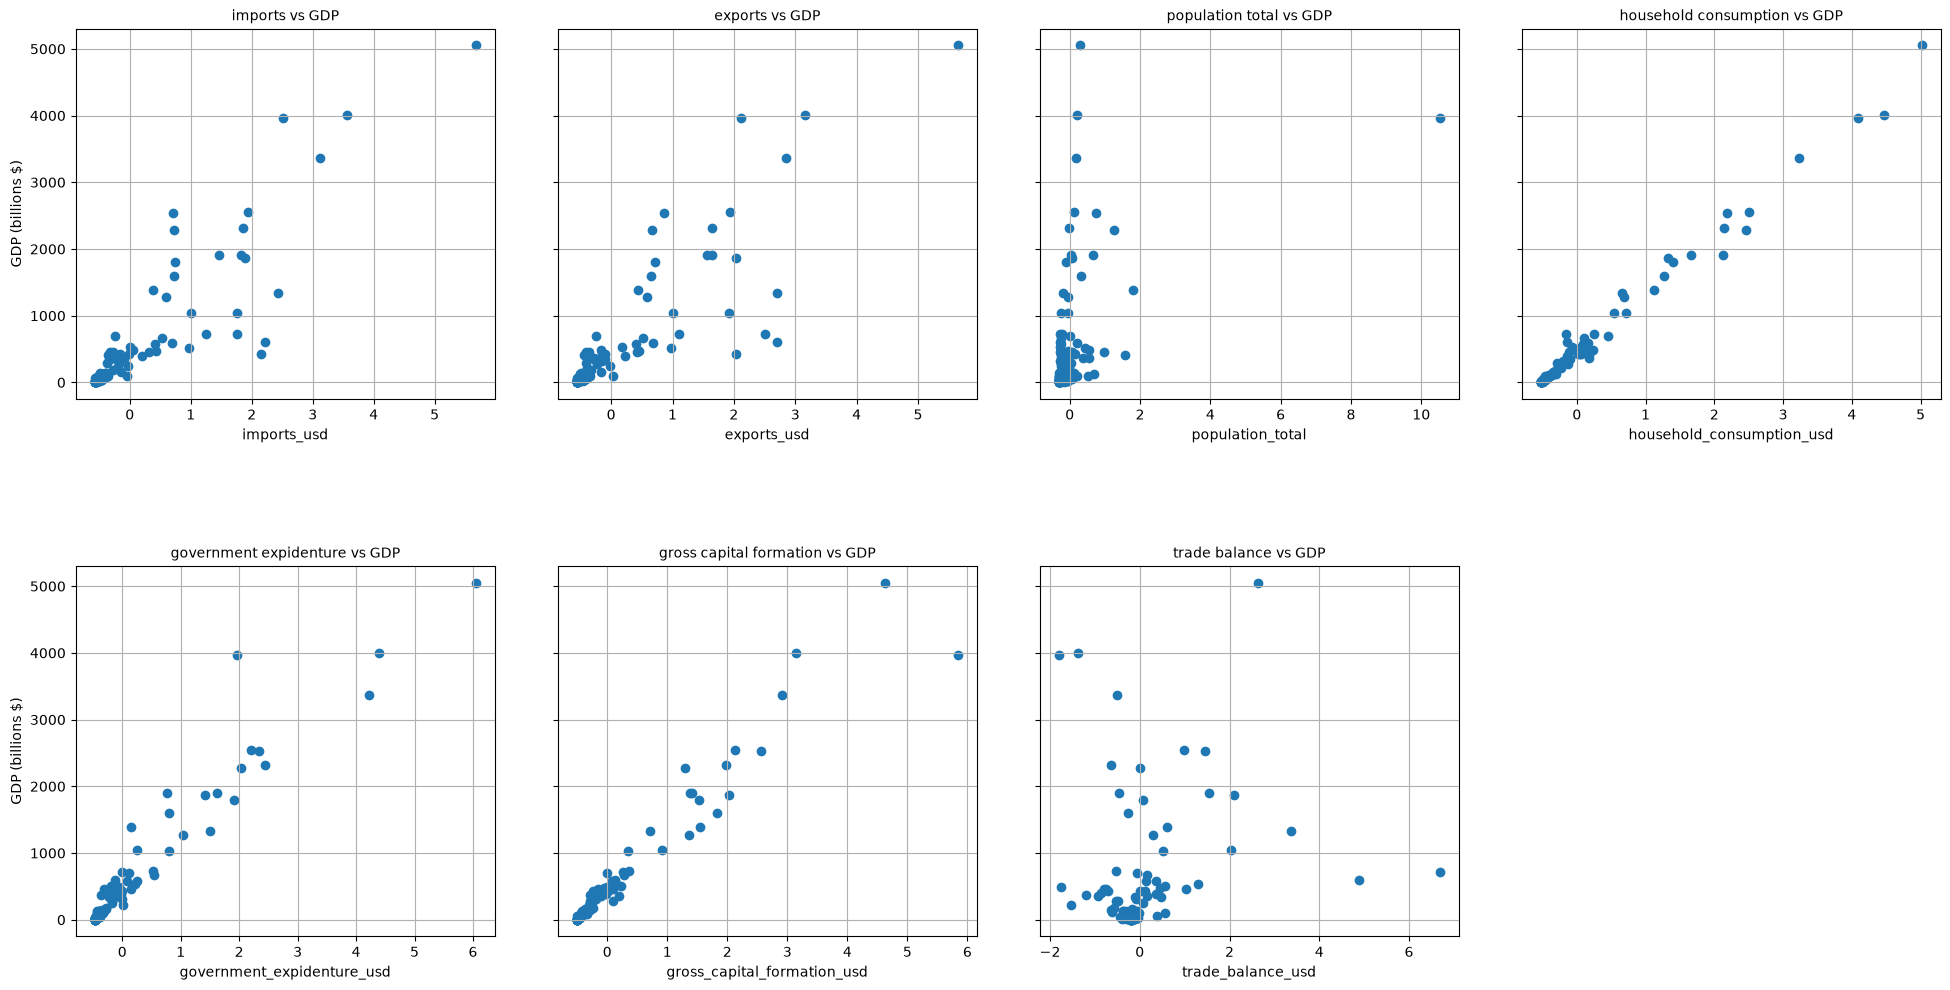
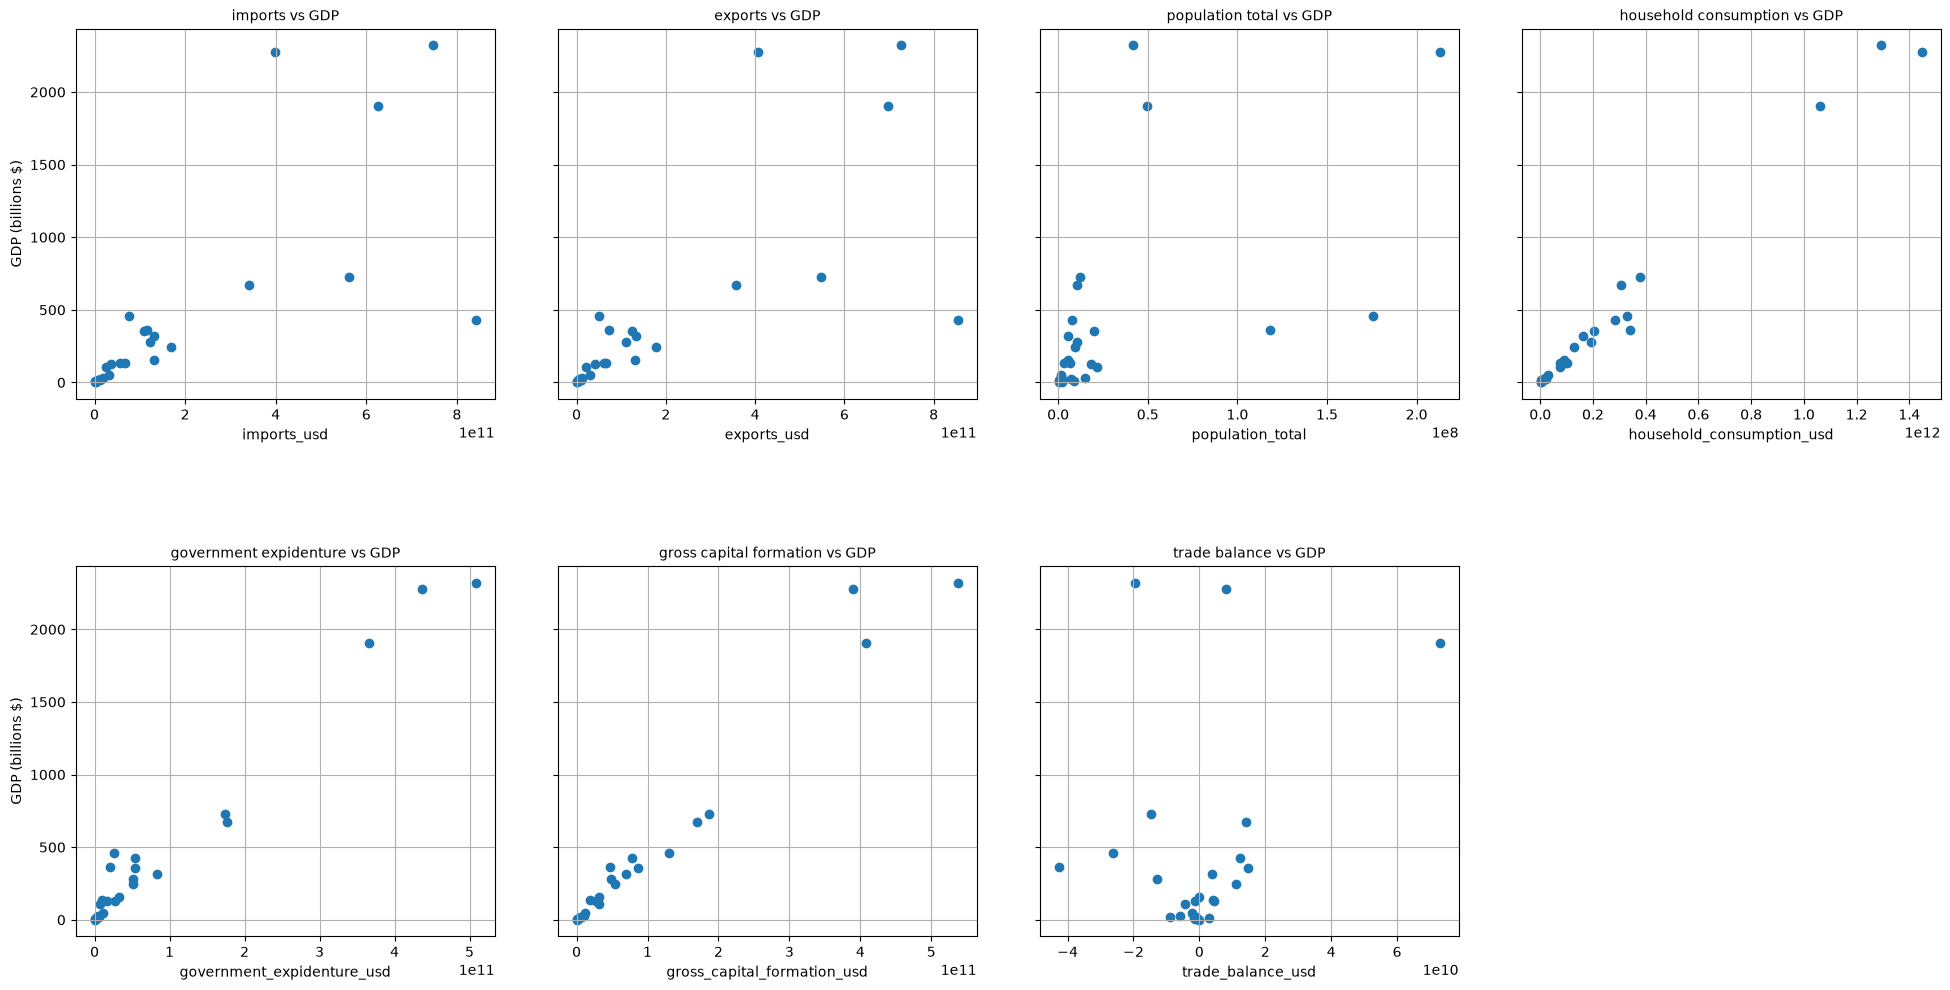
Add train/test evaluation, improve visualizations, and clean repository

diff --git a/src/main.py b/src/main.py
@@ -1,5 +1,5 @@
 import numpy as np
-from preprocessing import load_data,split_features_targets,z_score_normalization
+from preprocessing import load_data,split_randomize_features_targets,z_score_normalization
 from model import predict,compute_gradient_descent,predict_gdp
 from visualization import plot_cost_comparison,actual_data,pred_vs_actual,predict_data
 from metrics import compute_MSE, compute_RMSE, compute_MAE, compute_R2
@@ -8,65 +8,86 @@ from metrics import compute_MSE, compute_RMSE, compute_MAE, compute_R2
 
 data = load_data("../data/world_development_index_2025_data.csv")
 
-x,y,x_features = split_features_targets(data,"gdp_usd")
-x_norm, mean, std= z_score_normalization(x)
+x_train,x_test,y_train,y_test,x_features = split_randomize_features_targets(data,"gdp_usd")
+x_train_norm, mean, std = z_score_normalization(x_train)
+x_test_norm = (x_test - mean) / std
 
-print(f"x shape: {x.shape} ")
-print(f"y shape: {y.shape} ")
-
-print(f"first 5 rows of data before normalization:")
-print(x[:5])
-print(f"first 5 rows of data after normalization:")
-print(x_norm[:5])
-print(f"feature means : ")
+print("=" * 60)
+print("MULTIPLE LINEAR REGRESSION FROM SCRATCH")
+print("=" * 60)
+print("\nDataset")
+print("-" * 60)
+print(f"Training samples: {x_train.shape[0]}")
+print(f"Testing samples:  {x_test.shape[0]}")
+print(f"Number of features: {x_train.shape[1]}")
+print("\nFeatures:")
+for i, feature in enumerate(x_features, start=1):
+    print(f"{i}. {feature}")
+print("\nFirst 5 training rows before normalization:")
+print(x_train[:5])
+print("\nFirst 5 training rows after normalization:")
+print(x_train_norm[:5])
+print("\nTraining feature means:")
 print(mean)
-print(f"standard deviations: ")
+print("\nTraining feature standard deviations:")
 print(std)
 
-temp_w=np.zeros(x.shape[1])
+temp_w=np.zeros(x_train.shape[1])
 temp_b=0
 
-
-w_raw,b_raw,cost_his_raw = compute_gradient_descent(x,y,temp_w,temp_b,1e-26,200000)
+print("\n" + "=" * 60)
+print("TRAINING WITH RAW FEATURES")
+print("=" * 60)
+w_raw,b_raw,cost_his_raw = compute_gradient_descent(x_train,y_train,temp_w,temp_b,1e-26,225700)
 print(w_raw,b_raw)
 
-w_norm,b_norm,cost_his_norm = compute_gradient_descent(x_norm,y,temp_w,temp_b,0.1,2500)
+print("\n" + "=" * 60)
+print("TRAINING WITH NORMALIZED FEATURES")
+print("=" * 60)
+w_norm,b_norm,cost_his_norm = compute_gradient_descent(x_train_norm,y_train,temp_w,temp_b,0.1,3200)
 print(w_norm,b_norm)
+
+print("\n" + "=" * 60)
+print("CONVERGENCE COMPARISON")
+print("=" * 60)
+print(f"Raw iterations completed:        {len(cost_his_raw):,}")
+print(f"Normalized iterations completed: {len(cost_his_norm):,}")
+print(f"Raw final cost:                  {cost_his_raw[-1]:,.6f}")
+print(f"Normalized final cost:           {cost_his_norm[-1]:,.6f}")
+iteration_improvement = len(cost_his_raw) / len(cost_his_norm)
+print(f"Normalized training used approximately {iteration_improvement:.1f}x fewer iterations.")
 
 plot_cost_comparison(cost_his_raw,cost_his_norm,save=True)
 
 
-
-
-y_prediction=predict(x_norm,w_norm,b_norm)
-print(y_prediction)
-
-actual_data(x_norm,y,x_features,save=True)
-predict_data(x_norm,y_prediction,x_features,save=True)
-
-print("Weights:", w_norm)
-print("Bias:", b_norm)
-
-print("\nFirst 10 predictions:")
-print(y_prediction[:10])
-
-print("\nFirst 10 actual values:")
-print(y[:10])
-
-mse = compute_MSE(y, y_prediction)
+y_test_prediction=predict(x_test_norm,w_norm,b_norm)
+print(y_test_prediction)
+mse = compute_MSE(y_test, y_test_prediction)
 rmse = compute_RMSE(mse)
-mae = compute_MAE(y, y_prediction)
-r2 = compute_R2(y, y_prediction)
+mae = compute_MAE(y_test, y_test_prediction)
+r2 = compute_R2(y_test, y_test_prediction)
 
-print(f"MSE  : {mse:.4f}")
-print(f"RMSE : {rmse:.4f}")
-print(f"MAE  : {mae:.4f}")
-print(f"R²   : {r2:.4f}")
+print("\n" + "=" * 60)
+print("TEST-SET EVALUATION")
+print("=" * 60)
 
+print(f"MSE:  {mse:,.4f}")
+print(f"RMSE: {rmse:,.4f} Billion USD")
+print(f"MAE:  {mae:,.4f} Billion USD")
+print(f"R²:   {r2:.4f}")
 
-pred_vs_actual(y,y_prediction)
+print("\nFirst 10 test predictions")
+print("-" * 60)
+print(f"{'Actual GDP':>15} {'Predicted GDP':>18} {'Error':>15}")
 
+number_to_show = min(10, len(y_test))
+for i in range(number_to_show):
+    error = y_test_prediction[i] - y_test[i]
+    print(f"{y_test[i]:>15.2f} "f"{y_test_prediction[i]:>18.2f} "f"{error:>15.2f}")
+
+actual_data(x_train,y_train,x_features,save=True)
+predict_data(x_test,y_test_prediction,x_features,save=True)
+pred_vs_actual(y_test,y_test_prediction)
 
 predict_gdp(mean,std,w_norm,b_norm)
-
 

diff --git a/src/preprocessing.py b/src/preprocessing.py
@@ -5,14 +5,23 @@ def load_data(file_name):
     data = pd.read_csv(file_name)
     return data
 
-def split_features_targets(data, target_column):
-    data["trade_balance_usd"]=data["exports_usd"]-data["imports_usd"]
-    x = data.drop(columns=["country_name","country_code", target_column])
+def split_randomize_features_targets(data, target_column):
+    data["trade_balance_usd"] = (data["exports_usd"] - data["imports_usd"])
+    x = data.drop(columns=["country_name", "country_code", target_column])
     feature_names = list(x.columns)
-    y = data[target_column]
-    y = y / 1000000000
-
-    return x.values , y.values,feature_names
+    y = data[target_column] / 1000000000
+    x = x.to_numpy()
+    y = y.to_numpy()
+    rng = np.random.default_rng(42)
+    indices = rng.permutation(len(x))
+    x = x[indices]
+    y = y[indices]
+    split_index = int(0.8 * len(x))
+    x_train = x[:split_index]
+    x_test = x[split_index:]
+    y_train = y[:split_index]
+    y_test = y[split_index:]
+    return x_train,x_test,y_train,y_test,feature_names
 
 def z_score_normalization(x):
     mean = np.mean(x,axis=0)

diff --git a/src/visualization.py b/src/visualization.py
@@ -5,7 +5,7 @@ def plot_cost_comparison(raw_cost_his,norm_cost_his,save=False):
     raw_iterations=np.arange(len(raw_cost_his))
     norm_iterations=np.arange(len(norm_cost_his))
     figure,ax = plt.subplots(figsize=(12,3))
-    ax.plot(raw_iterations,raw_cost_his,label=f"raw_cos, iterations: {len(raw_cost_his)-1}")
+    ax.plot(raw_iterations,raw_cost_his,label=f"raw_cost, iterations: {len(raw_cost_his)-1}")
     ax.plot(norm_iterations,norm_cost_his,label=f"normalized_cost, iterations: {len(norm_cost_his)-1}")
     ax.set_title("Gradient Descent Convergence Comparison")
     ax.set_xlabel("Iterations")